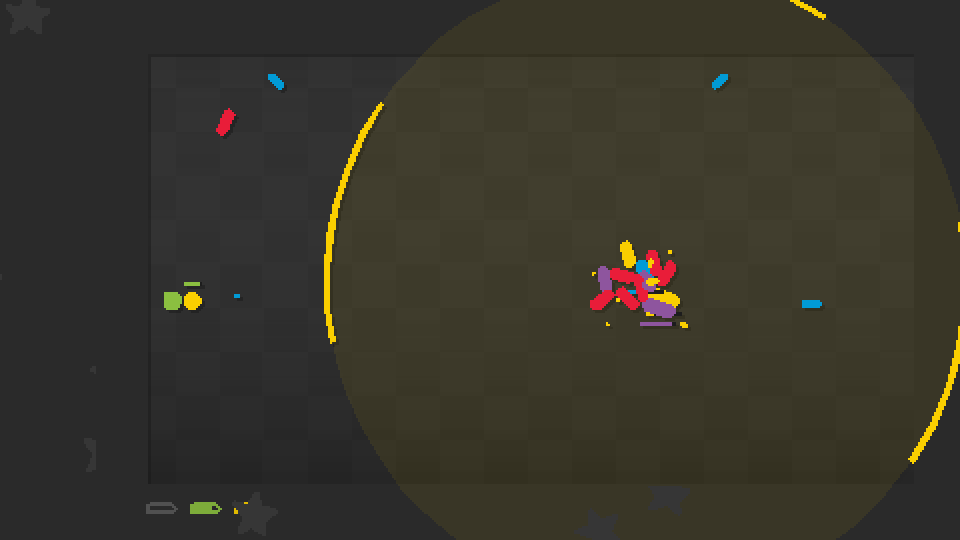
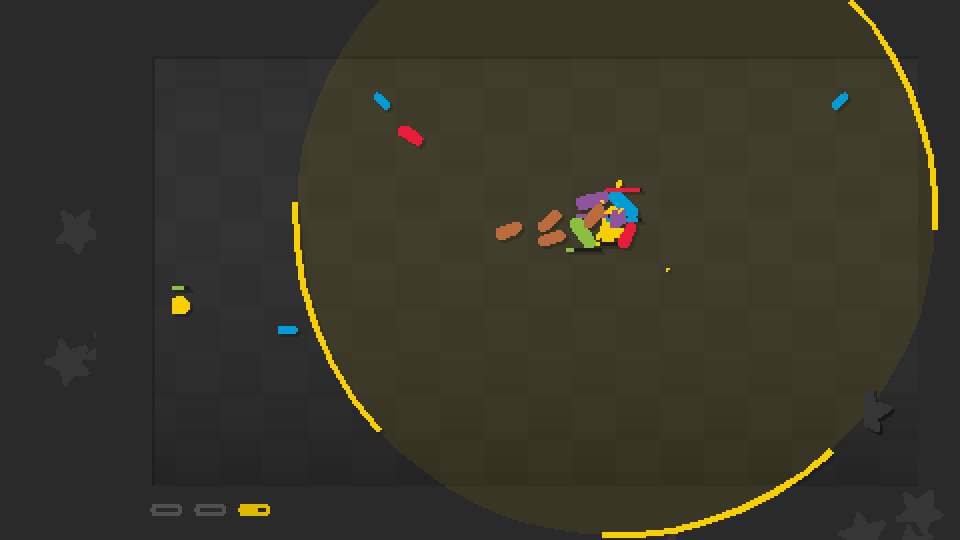
A push from a contact starts from the velocity before the step, as in LÖVE: six arena tests' ticks; the long scenes, 15 seeds (#26)
Claude-Session: https://claude.ai/code/session_011eECohRKf757Ydp2i9w7Ng

diff --git a/doc/compiler.md b/doc/compiler.md
@@ -472,15 +472,32 @@ more still lasts 62 to 93 ticks (means of seeds 1 to 3, against 106),
 with a top speed of 376 to 434 px/s against 331: almost every push of
 the port reaches a wall.
 
-Left, not verified: the time of the begin of a contact. LÖVE (Box2D
-2.3) calls it inside the step, before the solver, so a push from a
-contact starts from the velocity of before the contact (top 331, under
-the 357 of the impulse alone); Box2D 3 reports it after the step, when
-the solver has already bounced the seeker off the unit, and the push
-adds to the bounce. A try is on the branch `wip-26` (`19f7ee6`): the
-engine keeps the velocity of each body before the step (`body_vel0`),
-and the four pushes from contacts start from it. Its suite: 37 ok, 6
-changed, not yet reviewed; its long scenes not yet run.
+- **The time of the begin of a contact** (`#26`). LÖVE (Box2D 2.3)
+  calls it inside the step, before the solver, so a push from a contact
+  starts from the velocity of before the contact; Box2D 3 reports it
+  after the step, when the solver has already bounced the seeker off
+  the unit, and the push adds to the bounce. The engine now keeps the
+  velocity of each body before the step (`body_vel0`), and the four
+  pushes from contacts (a unit, a force field, a seeker thrown into
+  another, an elite's charge) start from it. Six arena tests changed
+  in their ticks (`arena2`, `arena3`, `bosses`, `classes`, `elites`,
+  `run`); each still shows what it exists to show.
+
+The long scenes with fifteen seeds (1 to 15), before and after, median
+and range:
+
+| measure | original | before | contact before the solver |
+|---------|---------:|-------:|--------------------------:|
+| level 1, second wave starts | 1693 | 1222 (755 to 1645) | 1279 (754 to 2012) |
+| level 1, cleared | 2450 | 2470 (1605 to 3194) | 2459 (1880 to 3020) |
+| level 1, hits on the sentry | 13 | 18 (14 to 20) | 17 (14 to 21) |
+| level 2, second wave starts | 1400 | 1472 (999 to 1990) | 1666 (1025 to 2484) |
+| level 2, the sentry dies | 2945 | 1897 (1509 to 2668) | 2014 (1669 to 3203) |
+
+Four of the five measures moved toward the original, one away; the
+ranges are wide, and the original is one run, so the gain is small and
+uncertain. The change is kept since it is the order of the original's
+engine. The sentry of level 2 still dies sooner than in the original.
 
 ## 9. The new rules of `pin`
 
